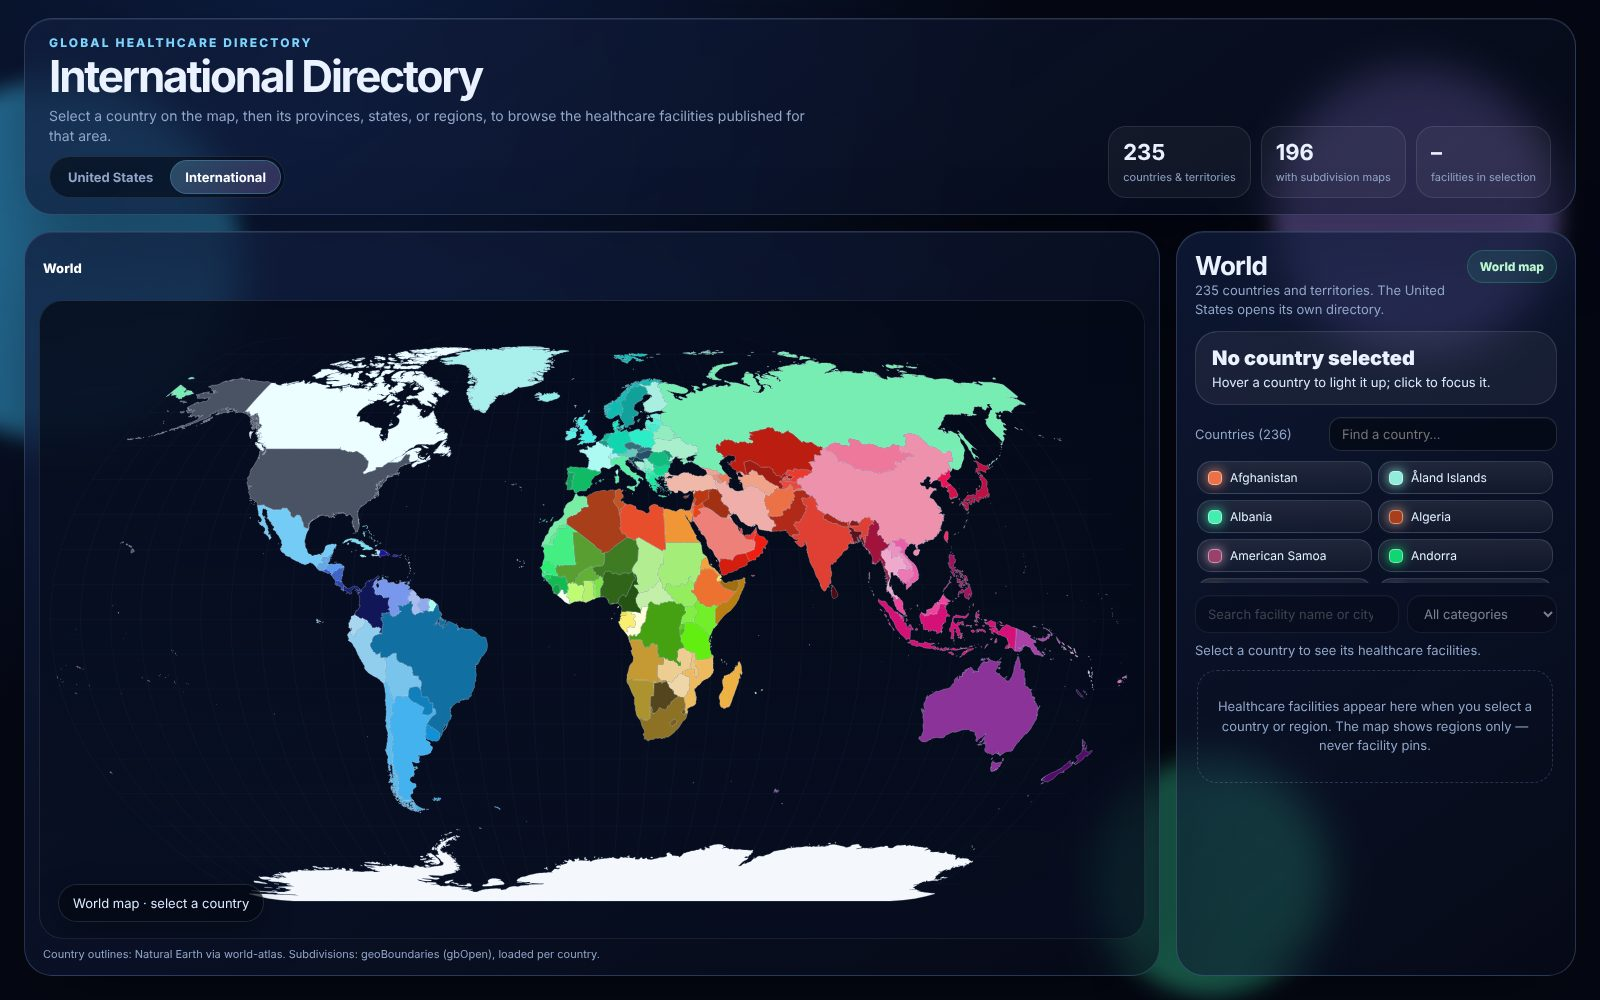
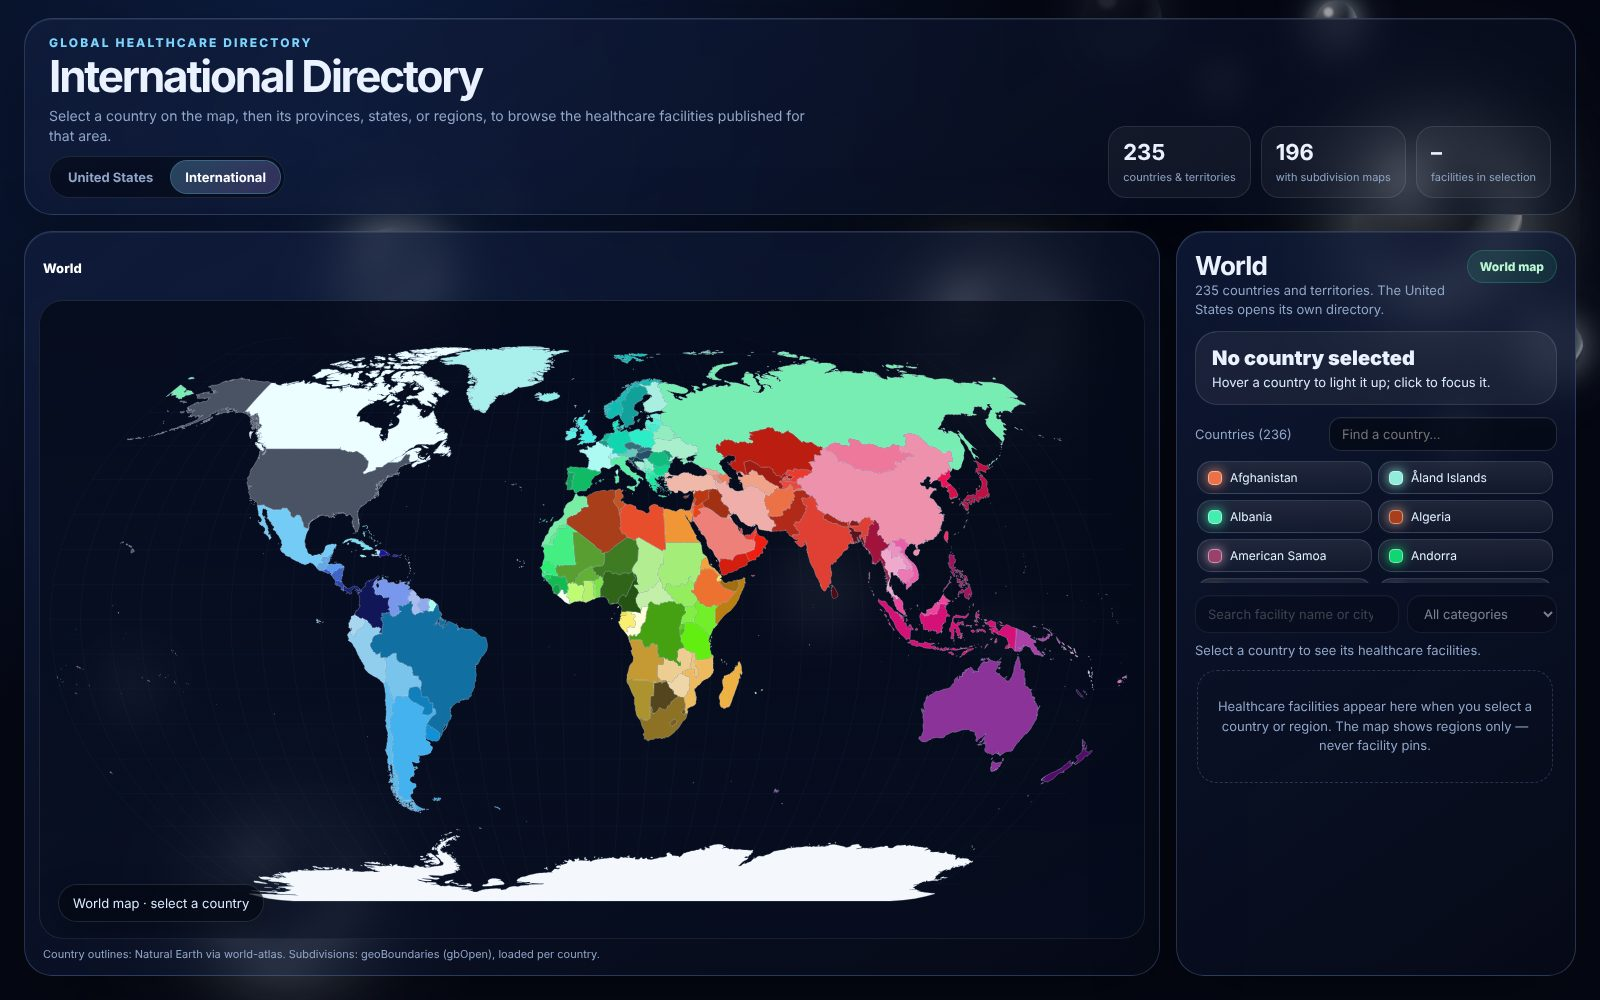
Replace coloured background orbs with ice-white bioluminescent bubbles
The three large blue, purple and green blurred orbs on the international page
are replaced by 17 hollow, rim-lit ice-white bubbles that rise slowly, sway,
and pulse with a soft cold glow (each with its own size, position, speed and
phase). They are decorative only: aria-hidden, no pointer events, behind the
glass panels, and static under prefers-reduced-motion. No map, palette, data
or U.S. page changes.

Claude-Session: https://claude.ai/code/session_01Qy7vVREGma9DSC7PB3AgeL

diff --git a/assets/css/world.css b/assets/css/world.css
@@ -11,11 +11,21 @@
 html,body{margin:0;min-height:100%}
 body{background:radial-gradient(circle at 20% 10%,#0d1f45 0,#050814 45%) fixed,#050814;color:var(--text);font-family:Inter,ui-sans-serif,system-ui,-apple-system,Segoe UI,Arial,sans-serif;overflow-x:hidden}
 a{color:var(--hot)}
-.orb{position:fixed;border-radius:999px;filter:blur(10px);opacity:.5;mix-blend-mode:screen;pointer-events:none;animation:float 18s ease-in-out infinite alternate;z-index:0}
-.orb.one{width:360px;height:360px;background:#38bdf8;left:-120px;top:80px}
-.orb.two{width:280px;height:280px;background:#a78bfa;right:60px;top:60px;animation-delay:-5s}
-.orb.three{width:220px;height:220px;background:#34d399;right:20%;bottom:40px;animation-delay:-9s}
-@keyframes float{from{transform:translate3d(0,0,0) scale(1)}to{transform:translate3d(70px,45px,0) scale(1.12)}}
+/* Ice-white bioluminescent bubbles: hollow, rim-lit spheres that rise slowly, sway, and pulse
+ * with a soft cold glow. Purely decorative (aria-hidden, no pointer events). */
+.bubbles{position:fixed;inset:0;overflow:hidden;pointer-events:none;z-index:0}
+.bubbles span{position:absolute;left:var(--x);bottom:calc(var(--s) * -2);width:var(--s);height:var(--s);border-radius:50%;
+  background:radial-gradient(circle at 32% 28%,rgba(255,255,255,.95) 0 7%,rgba(240,250,255,.3) 15%,rgba(215,238,255,.1) 45%,rgba(230,246,255,.45) 66%,rgba(248,252,255,.85) 71%,transparent 74%);
+  box-shadow:0 0 calc(var(--s) * .5) rgba(225,243,255,.55),0 0 calc(var(--s) * 1.1) rgba(195,228,255,.28),inset 0 0 calc(var(--s) * .3) rgba(235,248,255,.35);
+  mix-blend-mode:screen;opacity:0;will-change:transform,opacity;
+  animation:bubbleRise var(--d) linear var(--delay) infinite,bubbleGlow calc(var(--d) / 6) ease-in-out var(--delay) infinite alternate}
+@keyframes bubbleRise{
+  0%{transform:translate3d(0,0,0);opacity:0}
+  8%{opacity:.95}
+  50%{transform:translate3d(var(--sway),-55vh,0)}
+  92%{opacity:.8}
+  100%{transform:translate3d(calc(var(--sway) * -1),-112vh,0);opacity:0}}
+@keyframes bubbleGlow{from{filter:brightness(.85) drop-shadow(0 0 2px rgba(200,232,255,.25))}to{filter:brightness(1.35) drop-shadow(0 0 calc(var(--s) * .18) rgba(220,242,255,.7))}}
 .cursorGlow{position:fixed;left:-400px;top:-400px;width:280px;height:280px;border-radius:999px;background:radial-gradient(circle,rgba(125,211,252,.16),transparent 65%);pointer-events:none;transform:translate(-50%,-50%);z-index:1}
 .app{position:relative;z-index:2;height:100vh;height:100dvh;min-height:640px;padding:18px 24px 24px;display:grid;grid-template-columns:minmax(320px,1fr) 400px;grid-template-rows:auto minmax(0,1fr);gap:16px}
 .glass{background:linear-gradient(145deg,rgba(17,29,61,.75),rgba(7,12,27,.55));border:1px solid var(--line);box-shadow:0 24px 80px rgba(0,0,0,.38),inset 0 1px 0 rgba(255,255,255,.08);backdrop-filter:blur(18px);-webkit-backdrop-filter:blur(18px);border-radius:28px}
@@ -138,4 +148,4 @@ h2{margin:0;font-size:26px;letter-spacing:-.03em}
   .facilityList{max-height:65vh}
   .drawer{right:8px;left:8px;bottom:8px;width:auto;max-height:70vh}
 }
-@media(prefers-reduced-motion:reduce){.orb{animation:none}*{transition-duration:.01ms!important;animation-duration:.01ms!important}}
+@media(prefers-reduced-motion:reduce){.bubbles span{animation:none;opacity:.45;bottom:auto;top:calc(var(--x) * .9)}*{transition-duration:.01ms!important;animation-duration:.01ms!important}}

diff --git a/world.html b/world.html
@@ -8,7 +8,7 @@
   <link rel="stylesheet" href="/assets/css/world.css">
 </head>
 <body class="worldView">
-  <div class="orb one" aria-hidden="true"></div><div class="orb two" aria-hidden="true"></div><div class="orb three" aria-hidden="true"></div>
+  <div class="bubbles" aria-hidden="true"><span style="--s:46px;--x:6%;--d:38s;--delay:-4s;--sway:18px"></span><span style="--s:18px;--x:14%;--d:26s;--delay:-19s;--sway:10px"></span><span style="--s:90px;--x:22%;--d:52s;--delay:-31s;--sway:26px"></span><span style="--s:12px;--x:31%;--d:22s;--delay:-7s;--sway:8px"></span><span style="--s:34px;--x:39%;--d:34s;--delay:-24s;--sway:16px"></span><span style="--s:64px;--x:48%;--d:46s;--delay:-12s;--sway:22px"></span><span style="--s:10px;--x:55%;--d:20s;--delay:-15s;--sway:6px"></span><span style="--s:28px;--x:61%;--d:30s;--delay:-2s;--sway:14px"></span><span style="--s:80px;--x:69%;--d:50s;--delay:-40s;--sway:24px"></span><span style="--s:16px;--x:76%;--d:24s;--delay:-11s;--sway:9px"></span><span style="--s:42px;--x:83%;--d:40s;--delay:-28s;--sway:18px"></span><span style="--s:22px;--x:90%;--d:28s;--delay:-6s;--sway:12px"></span><span style="--s:56px;--x:95%;--d:44s;--delay:-20s;--sway:20px"></span><span style="--s:14px;--x:3%;--d:25s;--delay:-14s;--sway:8px"></span><span style="--s:150px;--x:12%;--d:60s;--delay:-9s;--sway:30px"></span><span style="--s:130px;--x:58%;--d:56s;--delay:-34s;--sway:28px"></span><span style="--s:170px;--x:86%;--d:64s;--delay:-50s;--sway:34px"></span></div>
   <div class="cursorGlow" id="cursorGlow" aria-hidden="true"></div>
   <div class="tooltip" id="tooltip" role="tooltip"></div>
   <div class="app">

diff --git a/docs/INTERNATIONAL_DIRECTORY.md b/docs/INTERNATIONAL_DIRECTORY.md
@@ -27,7 +27,7 @@ There is no server, Worker, or new paid service.
 
 | File | Purpose |
 | --- | --- |
-| `world.html`, `assets/css/world.css` | Page and styles: glass panels, orbs, cursor glow, luminous borders, floating record drawer (recovered design). |
+| `world.html`, `assets/css/world.css` | Page and styles: glass panels, ice-white bioluminescent bubbles (replacing the original coloured orbs, owner request), cursor glow, luminous borders, floating record drawer (recovered design). |
 | `assets/js/world-map.js` | D3 map controller: world → country → regions, fly-to transitions, breadcrumbs, Back/Escape, browser history (`#/CAN/…`), sidebar, drawer. |
 | `assets/js/world-data.js` | Read-only Neon Data API client (anonymous session token, GET only, paginated). |
 | `assets/js/world-geo.js` | Progressive boundary loading with in-browser size + SHA-256 verification and per-session caching. |
